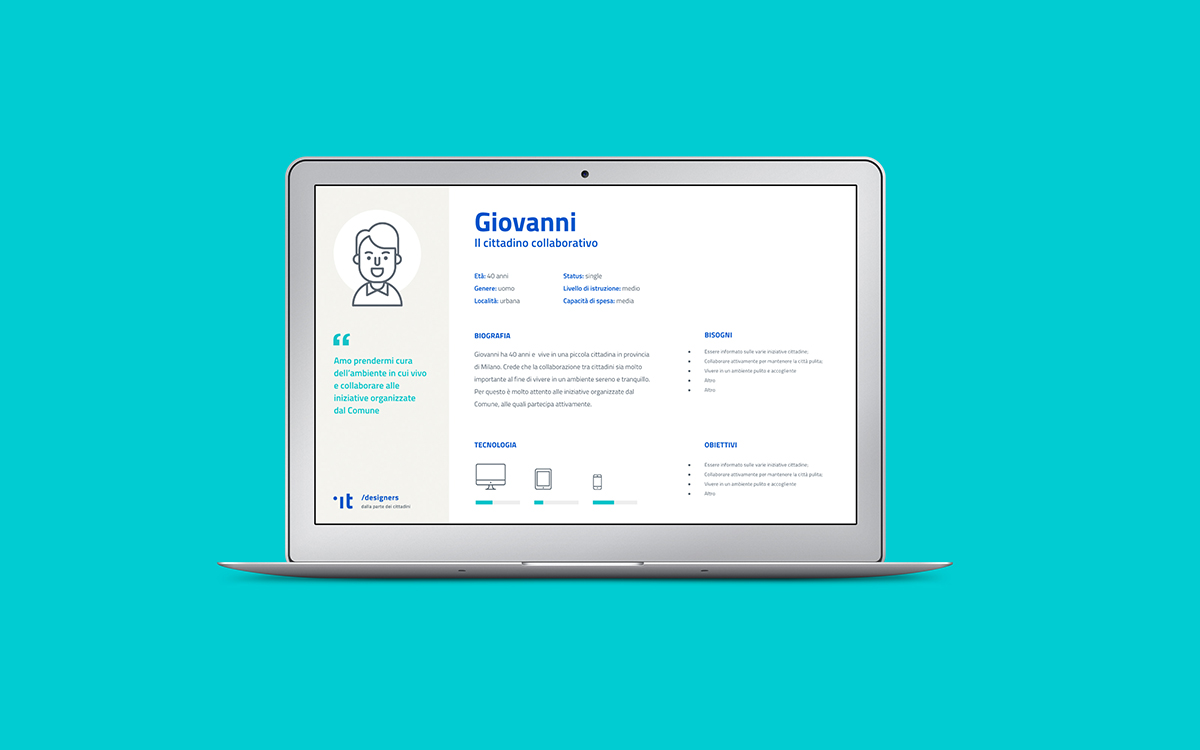
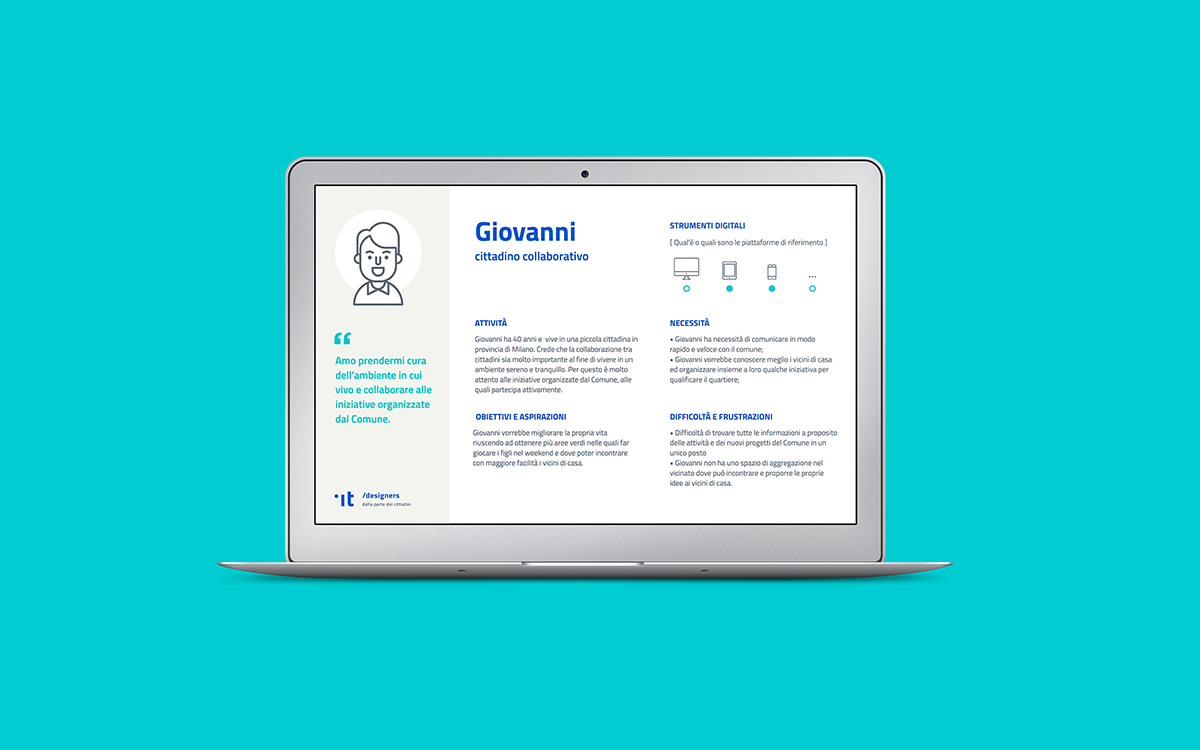
Refactoring pagina kit con requisiti nuovi. Varie fix

diff --git a/_layouts/download.html b/_layouts/download.html
@@ -81,33 +81,31 @@ layout: default
 
 <!--/ === blue block-->
 <!--/ === blue block-->
-
+  <div class="Download u-padding-bottom-xxl">
+    <div class="Download-wrapper">
+      {% unless page.download_file[0].file==nil %}
+      <a  class="download-button--float Button  Button--shadow u-text-r-xs u-color-white" 
+      href="#" title="scarica il kit">scarica il kit<span class="u-text-r-xxs Icon Icon-expand u-floatRight"></span></a>
+      {% else %}
+      <a  class="download-button--float Button  Button--shadow u-text-r-xs u-color-white" 
+      href="#kitsdownload" title="kit in lavorazione">kit in lavorazione<span class="u-text-r-xxs Icon Icon-expand u-floatRight"></span></a>
+      {% endunless %}
+    </div>
+  </div>
 
 
   <div class="u-background-white u-layout-r-withGutter u-padding-r-top u-padding-bottom-xxl u-posRelative u-zindex-30">
     <div class="Grid Grid--alignCenter">
       <div class="Grid-cell u-sizeFull u-md-size7of12 u-lg-size7of12">
 
-        <div class="Prose u-layout-prose u-layoutCenter u-padding-top-xl u-color-grey-50">
+        <div class="Prose u-layout-prose u-layoutCenter u-padding-top-xl u-padding-bottom-xl u-color-grey-50">
           {{ content }}
 
-          <div class="u-margin-bottom-xxl u-margin-top-xxl u-padding-bottom-xxl u-padding-top-xxl">
-                {% for download in download_file %}
-                {% assign downloadUrl = download.file | relative_url %}
-                {% unless downloadUrl=='internal' %}
-                  {% assign downloadUrl = donwload.file %}
-                {% endunless %}
-                <div class="u-text-r-m u-margin-top-m u-textWeight-600">
-                <span class="u-text-r-m Icon Icon-arrow-right u-color-teal-60"></span>&nbsp;
-
-                <a href="{{downloadUrl}}" class="">{{download.caption}}</a>
-
-                </div>
-                {% endfor %}
-              
-          </div>
-
         </div>
+
+        
+
+        {% include kits.html %}
 
 
         {% if page.related_tags == nil %}

diff --git a/_includes/relatedskit.html b/_includes/relatedskit.html
@@ -14,13 +14,13 @@
 
 
 {% if selecteds.size > 0 %}
-	<section class="u-background-grey-10 u-layout-r-withGutter u-padding-top-xxl u-padding-r-bottom">
+	<section class="RelatedKits u-background-grey-10 u-layout-r-withGutter u-padding-top-xxl u-padding-r-bottom">
 		  <h1 class="u-text-h2 u-textCenter u-color-50">Kit</h1>
 		  <h2 class="u-text-r-l u-textCenter u-textWeight-400 u-color-50 u-padding-bottom-xxl">Trova altri Design Kit</h2>
 		  <div class="u-margin-top-xl  u-margin-bottom-xl Grid Grid--withGutter Grid--equalHeight Grid--fill">
 		     {% for item in selecteds | limit: 3 %}
-		      <div class="Grid-cell u-md-size1of3 u-lg-size1of3 u-flex"
-		           style="min-height: 20em; background-color: {{item.backgroundColor}}; background-image: url({{item.backgroundImage}}); background-blend-mode: multiply; background-size: cover;">
+		      <div class="RelatedKits-cell Grid-cell u-md-size1of3 u-lg-size1of3 u-flex"
+		           style="background-color: {{item.backgroundColor}}; background-image: url({{item.carousel[0].img | default: item.backgroundImage}}); ">
 
 		           <article class="u-padding-r-all u-text-r-xl u-flex u-flexWrap u-flexAlignSelfStretch u-color-white">
 			          <div class="u-flexAlignSelfEnd">

diff --git a/_includes/kits.html b/_includes/kits.html
@@ -1,0 +1,27 @@
+
+<hr class="u-border-left-none u-border-right-none u-border-bottom-xxs u-border-top-none u-color-grey-30 u-margin-r-bottom u-margin-top-xxl" />
+<div class="u-margin-bottom-xxl u-margin-top-xxl u-padding-bottom-xxl u-padding-top-xxl">
+	<a name="kitsdownload"></a>
+	<div class="u-padding-all-xl">
+        <h1 class="u-text-h2 u-color-50">
+          <img src="/assets/icons/kits-download-icon.svg" height="54" > Materiali all'interno del kit</h1>
+    
+ 	{% for download in download_file %}
+	    {% assign downloadUrl = download.file | relative_url %}
+	    {% unless downloadUrl=='internal' %}
+	      {% assign downloadUrl = donwload.file %}
+	    {% endunless %}
+	    <div class="u-text-r-m u-margin-top-xl u-textWeight-600">
+
+	    {% if download.file %}
+	    <span class="u-text-r-m Icon Icon-arrow-right u-color-teal-60"></span>&nbsp;
+	    <a href="{{downloadUrl}}" class="">{{download.caption}}</a>
+	    {% else %}
+	    <span class="u-text-r-m Icon Icon-arrow-right u-color-grey-40"></span>&nbsp;
+	    <span class="u-color-grey-40">{{download.caption}}</span> <span class="u-color-grey-40 u-textPreformatted u-text-r-xxs">in lavorazione</span>
+	    {% endif %}
+	    </div>
+  {% endfor %}
+  </div>
+  
+</div>

diff --git a/_sass/_designer.scss b/_sass/_designer.scss
@@ -407,6 +407,19 @@ $light-grey: #e6e9f0;
     }
   }
 }
+/* RELATEDKITS 
+=============== */
+.RelatedKits {
+  &-cell {
+    background-size: auto;
+    background-position-y: 25%;
+    min-height: 20em;
+    background-blend-mode: multiply; 
+    &:hover {
+      background-color: #00c5ca !important;
+    }
+  }
+}
 /* RELATEDS
 =============== */
 .Relateds {
@@ -441,13 +454,19 @@ $light-grey: #e6e9f0;
     .download-button {
       color: #fff !important;
       background-color: #00C5CA !important;
+      
 
       &--float {
+        display: block;
+        width: 20em;
         position: absolute;
         top: -3rem;
         left: 50%;
         transform: translateX(-50%);
         z-index: 100;
+        background-color: #00c5ca !important;
+        border: none;
+        
       }
     }
   }

diff --git a/_kits/it/analytics.md b/_kits/it/analytics.md
@@ -1,100 +1,58 @@
 ---
 sitemap: false
-title: "Web Analytics: Starter Kit"
+title: Web Analytics
 lang: it
 layout: download
-subtitle: Modello di report/dashboard per Google Analytics e Piwik
-backgroundImage : '/assets/images/posts/cover-personas.jpg'
+subtitle: Osserva i comportamenti degli utenti partendo dai dati di utilizzo del servizio
+backgroundImage : '/assets/images/kits/08_WebAnalytics_BG_Site.png'
 backgroundColor: '#439af1'
 nodate: true
 kitcategory: capire
 tags: 
-  - analytics
-  - usability
-  
+- analytics
+- piwik
+- data-driven-design
+- user-flows
+
+download_file :
+- file : 
+  caption : 'Dashboard con Google Analytics'
+  type : 'internal'
+- file : 
+  caption : 'Istruzioni dashboard Google Analytics'
+  type : 'internal'
+- file : 
+  caption : 'Dashboard con Google Data Studio'
+  type : 'internal'
+- file : 
+  caption : 'Istruzioni dashboard Piwik'
+  type : 'internal'
+
+carousel:
+- img: '/assets/images/kits/placeholder_kit_08_analitics.png'
+  label:
 ---
 
-Questo starter kit ha l’obiettivo di fornire - a chi si occupa a vario titolo del sito web di una pubblica amministrazione - indicazioni operative su come produrre e distribuire un report basico di web analytics, con la finalità di condividerne i dati all’interno di un team di lavoro o con altri stakeholder. Il kit prevede:
+{:.u-color-50}
+###### CHE COS’È
 
-**Google Analytics**
-  - un modello di dashboard dinamica già pronto, importabile su Google Analytics
-  - un esempio di dashboard che è possibile generare con la piattaforma Google Data Studio
+{:.u-color-50 .u-margin-bottom-xxl}
+#### L’analisi delle *performance* di un ambiente web (web analytics) è un’attività cruciale per capire quanto un sito (o un servizio digitale di altro tipo) risponda in maniera adeguata ai bisogni degli utenti.
 
-**Piwik**
-  - un esempio di dashboard che è possibile generare con Piwik
+{% include simplecarousel.html  %} 
 
-## Google Analytics
+{:.u-color-50 .u-margin-top-xxl}
+###### COME SI UTILIZZA
+Le piattaforme per raccogliere informazioni sul comportamento degli utenti consentono di isolare dati quantitativi e qualitativi sull’utilizzo di un determinato sito o servizio digitale. La raccolta, la segmentazione, l'interpretazione e la corretta condivisione di questi dati consentono di orientare azioni di **ottimizzazione, design e re-design** dei servizi digitali. 
 
-### Modello di dashboard dinamica
 
-Le dashboard di Google Analytics sono costituite da un insieme di widget che consentono il monitoraggio di più combinazioni di dati contemporaneamente all’interno di una determinata vista. I dati si aggiornano istantaneamente al variare dei controlli “intervallo di tempo”.
 
-È possibile creare dashboard ex novo in base alle proprie esigenze (nella sezione **Personalizzazione → Dashboard** dell’account Google Analytics) oppure importare uno dei modelli pubblicati nella [Google Analytics Solution Gallery →](https://www.google.com/url?q=https://analytics.google.com/analytics/gallery/&sa=D&ust=1496159920213000&usg=AFQjCNEscjhlyktuYvElpcs5ASMTT2CqYA).
+{:.u-color-50 .u-margin-top-xxl}
+###### A COSA SERVE
+Il kit Web Analytics ha l’obiettivo di fornire a chi si occupa a vario titolo del sito web di una pubblica amministrazione indicazioni operative su come produrre e distribuire un report **basico di web analytics**, con la finalità di condividerne i dati all’interno di un team di lavoro o con altri *stakeholder*. 
 
-Il template “[Starter kit] Dashboard sito web PA” - disponibile sulla Google Analytics Solution Gallery  - è una soluzione dinamica per la generazione di un report analytics di base destinato all’analisi dei dati del sito web di una pubblica amministrazione.
+  
 
-È possibile importarlo sul proprio account GA utilizzando il pulsante Import della galleria soluzioni e scegliendo in seguito la vista di dati a cui applicarlo.
-
-![]({{'/assets/images/kits/analytics-1.png' | relative_url }})
-
-A configurazione importata, sarà possibile visualizzare i dati all’interno del rapporto **Personalizzazione → dashboard**.
-
-![]({{'/assets/images/kits/analytics-2.png' | relative_url }})
-
-Nella dashboard così generata saranno visualizzabili i seguenti dati:
-
-- Visite totali
-- Visite uniche
-- Pagine visualizzate
-- Pagine più visitate
-- Siti referenti
-- Canali di acquisizione del traffico (%)
-- Visite per browser (%)
-- Categoria di dispositivo (%)
-- Provenienza geografica degli utenti
-- Visite per modello di dispositivo mobile (%)
-- Visite provenienti dai social network (%)
-- Termini di ricerca su sito
-
-La vista dei dati si aggiorna dinamicamente modificando l’intervallo di tempo d’interesse per la rilevazione (con il controllo “Intervallo di date”); è possibile inoltre effettuare comparazioni dei dati per periodi di tempo diversi, così come per i normali rapporti in Google Analytics.
-Il template della dashboard può essere rinominato e customizzato a seconda delle esigenze (ad esempio eliminando o modificando i widget con il pulsante a forma di matita presente all’interno di ogni box).
-
-La dashboard consente inoltre di:
-- esportare i dati in formato PDF
-- inviare il report via email una tantum
-- impostare un invio periodico del report ad uno o più utenti  
-<br>
-- [Modello di dashboard dinamica per Google Analytics →](https://analytics.google.com/analytics/gallery/#posts/search/%3F_.start%3D0%26_.tab%3DMy%26_.sort%3DDATE%26_.viewId%3Dp2XyDmehQA-yNgkA39HfiQ/)
-- [Guida all’uso delle dashboard in Google Analytics →](https://support.google.com/analytics/answer/1068216?hl=it)
-
-### Google Data Studio (Beta)
-
-Chi ha già dimestichezza con la generazione delle dashboard, può utilizzare inoltre la piattaforma Google Data Studio (Beta) per la creazione di soluzioni di monitoraggio dinamiche dall’impatto grafico più incisivo.
-Data Studio consente la condivisione della configurazione dinamica con altri utenti, sia in modalità di sola lettura che in modalità di modifica completa.
-
-![]({{'/assets/images/kits/analytics-3.png' | relative_url }})
-
-![]({{'/assets/images/kits/analytics-4.png' | relative_url }})
-
-Esempio di dashboard di Google Data Studio:
-
-- [Link a Google Data Studio →](https://datastudio.google.com)
-- [Guida di Google Data Studio →](https://support.google.com/datastudio/topic/6267740?hl=it&ref_topic=6267739)
-- [Tutorial Video →](https://support.google.com/datastudio/answer/6390659?utm_source=in-product&utm_medium=feature-panel&utm_campaign=videos)
-
-## Piwik
-
-### Generare una dashboard
-
-Anche con Piwik è possibile generare visualizzazioni dinamiche dei dataset, scegliendo fra i widget a disposizione nel menu a tendina “Dashboard” e organizzando la vista dei dati in base alle proprie esigenze (drag&drop).
-E’ possibile modificare la visualizzazione dei dati all’interno del singolo widget, nonché esportare i dati in esso contenuti nei seguenti formati: CSV,TSV,XML, json, Php, RSS.
-
-![]({{'/assets/images/kits/analytics-5.png' | relative_url }})
-
-*Esempio di dashboard per un sito web generata all’interno di Piwik*
-
-Per generare un report customizzato e impostarne l’invio periodico, è sufficiente recarsi nella sezione Amministrazione e utilizzare la funzione Report Email. Questa funzionalità consente di selezionare i dataset da includere nel report; scegliere il formato dell’output (PDF, HTML, CSV); settare la frequenza di invio e i relativi destinatari.
-
-![]({{'/assets/images/kits/analytics-6.png' | relative_url }})
-
-*Creazione e programmazione di un report email in Piwik*
+{:.u-color-50 .u-margin-top-xxl}
+###### COSA CONTIENE QUESTO KIT
+Questo kit consente di imparare come produrre dashboard dinamiche personalizzate sulle due piattaforme di web analytics più utilizzate: **Google Analytics e Piwik**. Per entrambe le piattaforme il kit propone delle istruzioni per creare una dashboard personalizzata e un esempio di dashboard predefinita, che si può importare o da cui si può prendere spunto. 

diff --git a/_kits/it/personas.md b/_kits/it/personas.md
@@ -3,27 +3,29 @@ sitemap: false
 title: Kit Personas
 lang: it
 layout: download
-subtitle:
+subtitle: Assumi la prospettiva dell’utente per ideare soluzioni valide, basate su necessità concrete. 
 backgroundImage : '/assets/images/kits/01_Personas_BG_Site.png'
 backgroundColor: '#439af1'
 nodate: true
 kitcategory: capire
 tags:
+- user-stories
+- workshop
 - human-centered-design
-- usability
+- teamwork
 
 download_file :
-- file : 'assets/downloads/KITpersonas_UserResearch.pdf'
-  caption : 'Strumenti per workhop'
+- file: 
+  caption : 'Esercizio di costruzione dei <i>personas</i>'
   type : 'internal'
-- file : 'assets/downloads/KITpersonas_UserResearch.pdf'
-  caption : 'Modello di presentazione'
+- file :
+  caption : 'Slide di presentazione dei <i>personas</i>'
   type : 'internal'
 
 carousel:
-- img: 'assets/images/kits/personas_slide_1.jpg'
+- img: '/assets/images/kits/personas_slide_1.jpg'
   label:
-- img: 'assets/images/kits/personas_slide_2.jpg'
+- img: '/assets/images/kits/personas_slide_2.jpg'
   label: 
 
 ---
@@ -31,29 +33,25 @@ carousel:
 ###### CHE COS’È
 
 {:.u-color-50 .u-margin-bottom-xxl}
-#### Le personas sono dei profili inventati che descrivono le diverse tipologie di utenti di un servizio, raccontando le loro motivazioni, aspettative, bisogni e attitudini.
+#### Le *personas* sono dei profili inventati che descrivono le diverse tipologie di utenti di un servizio, raccontando le loro motivazioni, aspettative, bisogni e attitudini.
 
 {% include simplecarousel.html  %} 
 
 {:.u-color-50 .u-margin-top-xxl}
 ###### COME SI UTILIZZA
-Le personas nascono sulla base dei risultati di un’attività di **ricerca e osservazione sul campo**: raggruppando i profili degli utenti intervistati che presentano simili caratteristiche e attitudini nei confronti di un determinato servizio o ambito di indagine. Una volta identificati queste similitudini, ciascun raggruppamento viene descritto attraverso un singolo **personaggio esemplificativo**, combinando nella descrizione dati socio-demografici (età, genere, professione,..) e attitudinali (necessità, aspettative, problemi,..) condivisi da tutte le persone appartenenti
-a quel gruppo.
+Le *personas* solitamente nascono sulla base dei risultati di un’attività di **ricerca e osservazione sul campo**, raggruppando i profili di utenti che presentano simili caratteristiche. Ciascun raggruppamento viene descritto creando un singolo **personaggio esemplificativo**, che mette in evidenza i tratti attitudinali (necessità, aspettative, problemi, etc.) condivisi da tutte le persone appartenenti a quel gruppo.
 
-  
 
 
 {:.u-color-50 .u-margin-top-xxl}
 ###### A COSA SERVE
-Le personas aiutano a progettare partendo dalle necessità e caratteristiche di specifici gruppi di utenti, intendendo come utenti sia i destinatari finali del servizio (i cittadini) che gli utilizzatori interni del servizio (gli operatori). Possono essere utilizzati per **raccontare** i risultati di una ricerca, fornendo una rappresentazione dei diversi comportamenti rilevati sul campo, e per **ideare** nuove funzionalità e servizi, lasciandosi ispirare e mettendosi nei panni dei diversi tipi di cittadini o operatori coinvolti.
+Le *personas* aiutano a generare idee partendo da necessità esistenti: possono essere utilizzate per **immergersi** nei panni dell’utente durante un’attività di brainstorming o workshop, e **ideare** nuove funzionalità e servizi che rispondono ai loro bisogni e aspettative.
 
   
 
-
 {:.u-color-50 .u-margin-top-xxl}
 ###### COSA CONTIENE QUESTO KIT
-Il kit contiene i materiali per identificare e delineare le personas tramite workshop e un modello per descriverle e raccontarle all'interno di presentazioni
-e documentazioni di progetto.
+Il kit contiene alcuni **fogli di lavoro** per lavorare sui *personas* in gruppo, e un modello per descrivere le *personas* in un documento di **presentazione**.
 
 
 
